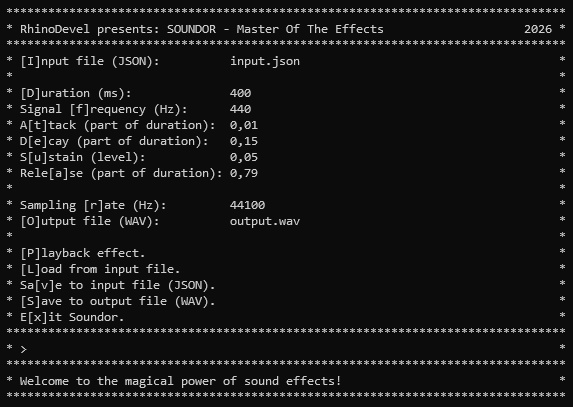
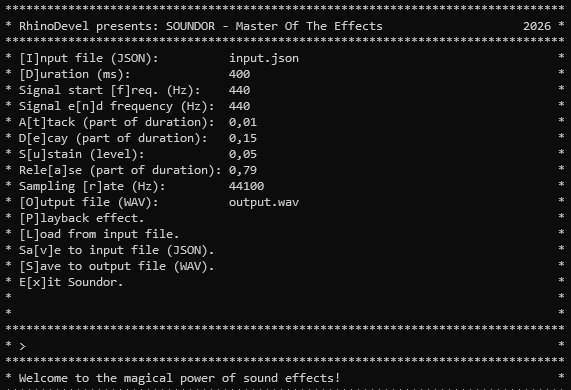
FEATURE: Signal frequency sweep.

diff --git a/Soundor/Ui.cs b/Soundor/Ui.cs
@@ -103,22 +103,22 @@ namespace Soundor
             Console.WriteLine($"* RhinoDevel presents: SOUNDOR - Master Of The Effects                    {_year} *"); ++line;
             Console.WriteLine("********************************************************************************"); ++line;
             Console.WriteLine("* [I]nput file (JSON):                                                         *"); ++line;
-            DrawEmptyLine(line++, true);
             Console.WriteLine("* [D]uration (ms):                                                             *"); ++line;
-            Console.WriteLine("* Signal [f]requency (Hz):                                                     *"); ++line;
+            Console.WriteLine("* Signal start [f]req. (Hz):                                                   *"); ++line;
+            Console.WriteLine("* Signal e[n]d frequency (Hz):                                                 *"); ++line;
             Console.WriteLine("* A[t]tack (part of duration):                                                 *"); ++line;
             Console.WriteLine("* D[e]cay (part of duration):                                                  *"); ++line;
             Console.WriteLine("* S[u]stain (level):                                                           *"); ++line;
             Console.WriteLine("* Rele[a]se (part of duration):                                                *"); ++line;
-            DrawEmptyLine(line++, true);
             Console.WriteLine("* Sampling [r]ate (Hz):                                                        *"); ++line;
             Console.WriteLine("* [O]utput file (WAV):                                                         *"); ++line;
-            DrawEmptyLine(line++, true);
             Console.WriteLine("* [P]layback effect.                                                           *"); ++line;
             Console.WriteLine("* [L]oad from input file.                                                      *"); ++line;
             Console.WriteLine("* Sa[v]e to input file (JSON).                                                 *"); ++line;
             Console.WriteLine("* [S]ave to output file (WAV).                                                 *"); ++line;
             Console.WriteLine("* E[x]it Soundor.                                                              *"); ++line;
+            DrawEmptyLine(line++, true);
+            DrawEmptyLine(line++, true);
             Console.WriteLine("********************************************************************************"); ++line;
             Console.WriteLine("* >                                                                            *"); ++line;
             Console.WriteLine("********************************************************************************"); ++line;
@@ -147,18 +147,13 @@ namespace Soundor
 
             top = 3;
             DrawVal(top++, inputJson);
-
-            top += 1;
-
             DrawVal(top++, p.DurationMs);
-            DrawVal(top++, p.SignalFreqHz);
+            DrawVal(top++, p.SignalStartFreqHz);
+            DrawVal(top++, p.SignalEndFreqHz);
             DrawVal(top++, p.Attack);
             DrawVal(top++, p.Decay);
             DrawVal(top++, p.Sustain);
             DrawVal(top++, p.Release);
-
-            top += 1;
-
             DrawVal(top++, samplingRateHz);
             DrawVal(top++, outputWav);
         }
@@ -407,7 +402,10 @@ namespace Soundor
 
                 // Not always necessary, but for simplicity:
                 samples = new Sine().CreateSamples(
-                    p.DurationMs, samplingRateHz, p.SignalFreqHz);
+                    p.DurationMs,
+                    samplingRateHz,
+                    p.SignalStartFreqHz,
+                    p.SignalEndFreqHz);
                 samples = Adsr.Create(
                     samples, p.Attack, p.Decay, p.Sustain, p.Release);
 
@@ -439,9 +437,9 @@ namespace Soundor
                     }
                     case ConsoleKey.F:
                     {
-                        p.SignalFreqHz = GetNewValFreqOrNote(
-                            "signal frequency",
-                            p.SignalFreqHz,
+                        p.SignalStartFreqHz = GetNewValFreqOrNote(
+                            "signal start frequency",
+                            p.SignalStartFreqHz,
                             Helper.AudioRangeMinHz,
                             Helper.AudioRangeMaxHz);
                         DrawValues(p, inputJson, outputWav, samplingRateHz);
@@ -476,6 +474,16 @@ namespace Soundor
                         break;
                     }
 
+                    case ConsoleKey.N:
+                    {
+                        p.SignalEndFreqHz = GetNewValFreqOrNote(
+                            "signal end frequency",
+                            p.SignalEndFreqHz,
+                            Helper.AudioRangeMinHz,
+                            Helper.AudioRangeMaxHz);
+                        DrawValues(p, inputJson, outputWav, samplingRateHz);
+                        break;
+                    }
                     case ConsoleKey.O:
                     {
                         outputWav = GetNewValStr("output file", outputWav);

diff --git a/Soundor/Params.cs b/Soundor/Params.cs
@@ -11,7 +11,8 @@ namespace Soundor
     internal class Params
     {
         public ulong DurationMs { get; set; }
-        public double SignalFreqHz { get; set; }
+        public double SignalStartFreqHz { get; set; }
+        public double SignalEndFreqHz { get; set; }
         public double Attack { get; set; }
         public double Decay { get; set; }
         public double Sustain { get; set; }
@@ -22,7 +23,8 @@ namespace Soundor
             return new Params
             {
                 DurationMs = 400,
-                SignalFreqHz = 440.0,
+                SignalStartFreqHz = 440.0,
+                SignalEndFreqHz = 440.0,
                 Attack = 0.01,
                 Decay = 0.15,
                 Sustain = 0.05,

diff --git a/Soundor/Batch.cs b/Soundor/Batch.cs
@@ -63,7 +63,8 @@ namespace Soundor
                 dataSamples = new Sine().CreateSamples(
                     p.DurationMs,
                     bp.SamplingRate, // TODO: Add min./max. check!
-                    p.SignalFreqHz);
+                    p.SignalStartFreqHz,
+                    p.SignalEndFreqHz);
 
                 dataSamples = Adsr.Create(
                     dataSamples, p.Attack, p.Decay, p.Sustain, p.Release);
